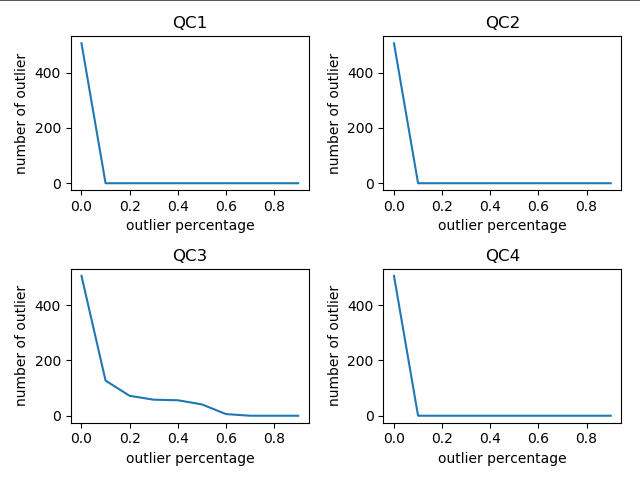
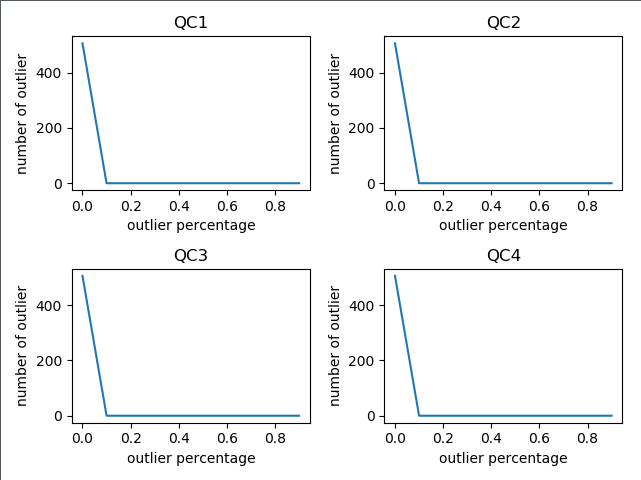
Bug fixed

diff --git a/scripts/qc.py b/scripts/qc.py
@@ -48,7 +48,7 @@ def qc2(mat_list, expected_outlier_percent):
 
 
 def qc3(mat_list, expected_outlier_percent):
-    threshold = 0.02
+    threshold = 0.03
 
     mean, std_dev = util.findMeanAndStd(mat_list)
     mean = mean > threshold
@@ -65,7 +65,7 @@ def qc3(mat_list, expected_outlier_percent):
 
 def qc4(mat_list, expected_outlier_percent):
     dim = len(mat_list[0])
-    threshold = 0.3
+    threshold = 0.03
     distances = []
     for i in range(0, len(mat_list)):
         d = []
@@ -75,12 +75,16 @@ def qc4(mat_list, expected_outlier_percent):
         distances.append(np.percentile(d, 0.5))
 
     return (np.asarray(distances) > expected_outlier_percent * dim * dim).sum()
+
+
 if __name__ == '__main__':
     directory = 'AD-Data'
     mat_list = util.readMatricesFromDirectory(join(os.pardir, directory))
     threshold = [i/10 for i in range(0, 10)]
-
+    enforce = 1
     try:
+        if enforce == 1:
+            raise FileNotFoundError
         qc1_outlier_count = pickle.load(open('qc1_outlier_count.p', 'rb'))
     except FileNotFoundError:
         qc1_outlier_count = []
@@ -89,6 +93,8 @@ if __name__ == '__main__':
         pickle.dump(qc1_outlier_count, open('qc1_outlier_count.p', 'wb'))
 
     try:
+        if enforce == 1:
+            raise FileNotFoundError
         qc2_outlier_count = pickle.load(open('qc2_outlier_count.p', 'rb'))
     except FileNotFoundError:
         qc2_outlier_count = []
@@ -97,6 +103,8 @@ if __name__ == '__main__':
         pickle.dump(qc2_outlier_count, open('qc2_outlier_count.p', 'wb'))
 
     try:
+        if enforce == 1:
+            raise FileNotFoundError
         qc3_outlier_count = pickle.load(open('qc3_outlier_count.p', 'rb'))
     except FileNotFoundError:
         qc3_outlier_count = []
@@ -105,6 +113,8 @@ if __name__ == '__main__':
         pickle.dump(qc3_outlier_count, open('qc3_outlier_count.p', 'wb'))
 
     try:
+        if enforce == 1:
+            raise FileNotFoundError
         qc4_outlier_count = pickle.load(open('qc4_outlier_count.p', 'rb'))
     except FileNotFoundError:
         qc4_outlier_count = []

diff --git a/scripts/util.py b/scripts/util.py
@@ -19,7 +19,7 @@ def readMatricesFromDirectory(directory):
     mat_list = []
     for file in files:
         a = readMatrixFromTextFile(join(directory, file))
-        #a /= a.sum(axis=1)
+        a /= a.sum(axis=1)
         mat_list.append(a)
 
     return mat_list
